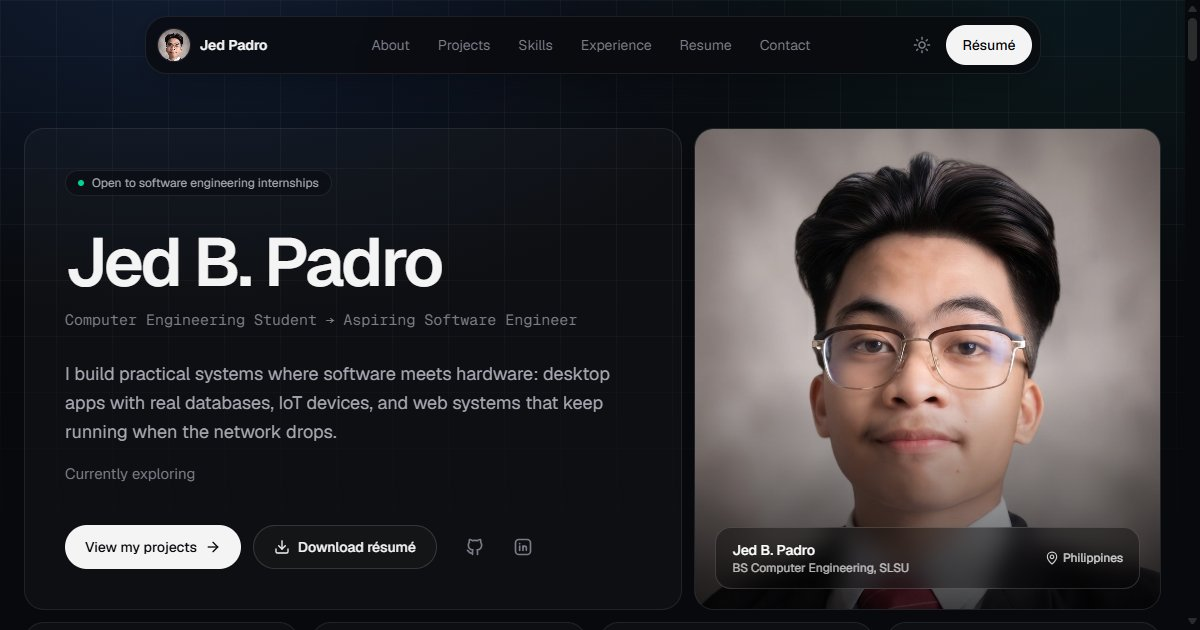
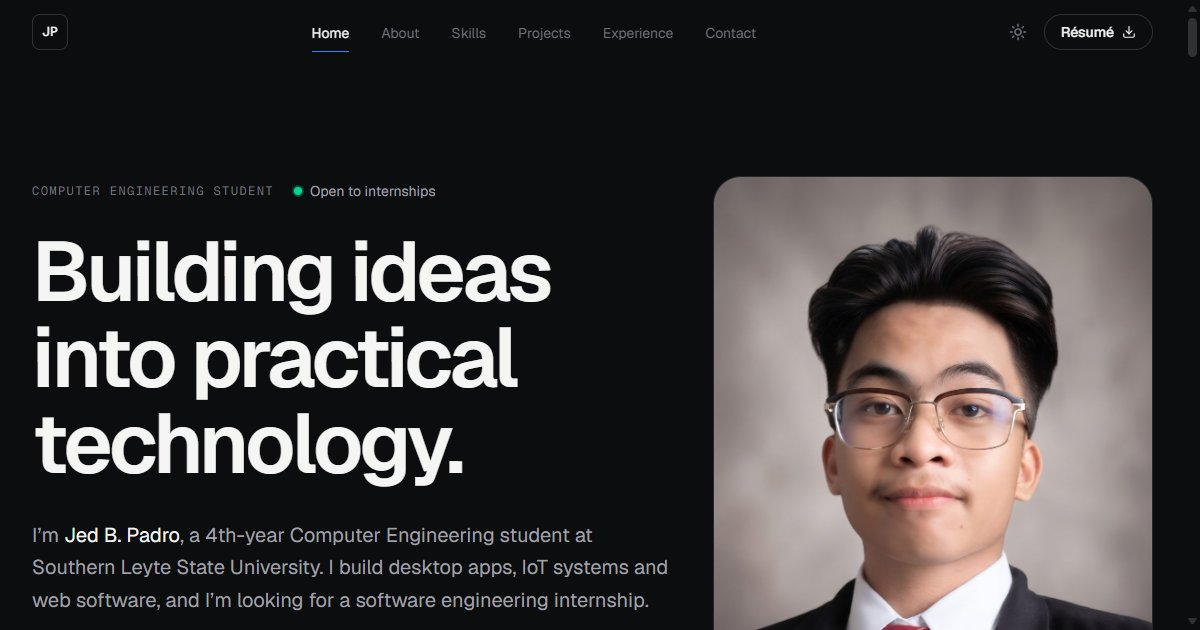
Update README, credits and social preview

diff --git a/README.md b/README.md
@@ -54,7 +54,7 @@ Almost everything lives in **`src/data/profile.ts`**. Change it, save, and the s
 - **Your photo:** put a square photo at `public/profile.jpg` and set `photo: 'profile.jpg'`. Until then a "JP" monogram shows.
 - **About me:** the `about.paragraphs`, `about.highlights` and `about.interests` lists.
 - **Skills:** the `skills` list. Each group has a name, an icon (`code`, `globe`, `database`, `cpu` or `wrench`) and its items.
-- **Projects:** the `projects` list. To add a screenshot, put the image in `public/projects/` (for example `public/projects/trainsmart.png`) and set `image: 'projects/trainsmart.png'` on that project. Until then the card shows a diagram of how the project works. `category` (`Desktop`, `IoT` or `Web`) drives the filter buttons.
+- **Projects:** the `projects` list (problem, objective, contributions, features, challenges, result, availability). To add a screenshot, put the image in `public/projects/` (for example `public/projects/trainsmart.png`) and set `image: 'projects/trainsmart.png'` on that project. Until then the card shows a diagram of how the project works. `category` (`Desktop`, `IoT` or `Web`) drives the filter buttons.
 - **Experience and education:** the `timeline` list. Entries with `placeholder: true` show as dashed "add this" cards; replace them with real entries or delete them.
 - **Certificates:** the `certificates` list. Put the PDF in `public/certificates/`, set `file: 'certificates/<name>.pdf'` and `image: 'certificates/<name>.jpg'`, then run `npm run thumbs` to render the thumbnail from the PDF (needs Python with PyMuPDF: `pip install pymupdf`).
 - **Project write-ups:** each project's `focus` (the engineering problem it's really about), `details` (shown in the expandable panel) and `availability` (where the code lives) are in the `projects` list.
@@ -69,17 +69,16 @@ npm run resume
 
 It looks for Chrome or Edge. If it can't find one, set `CHROME_PATH` to your browser's path. You can also simply replace `public/resume.pdf` with a résumé you made elsewhere; the download buttons will serve whatever file is there.
 
-### The contact form
+### Contact
 
-Out of the box the form does not pretend to send anything. When a visitor presses the button, their own email app opens with the name, subject and message filled in, addressed to you.
+The contact section uses email only: a large mailto link, a "Send an email" button and a copy button.
+There is deliberately no form, so nothing can silently fail to send. (`formspreeId` in `profile.ts` is kept
+for a future form; it isn't used by the current design.)
 
-To receive messages directly instead:
+### Content plan
 
-1. Create a free form at [formspree.io](https://formspree.io) and copy its form ID (the part after `/f/`).
-2. For local development, create a `.env` file in the project folder containing `VITE_FORMSPREE_ID=your_id`.
-3. For the live site on GitHub Pages: repo **Settings → Secrets and variables → Actions → Variables**, add a variable named `VITE_FORMSPREE_ID` with your ID, then push or re-run the deploy workflow.
-
-The button then reads "Send message" and only shows "Message sent" after Formspree confirms it.
+`docs/PORTFOLIO_PLAN.md` holds the content strategy, section order, recruiter checklist and the visual system
+this design follows, plus a checklist of content still to add (real screenshots first).
 
 ## Deploying
 

diff --git a/THIRD_PARTY_NOTICES.md b/THIRD_PARTY_NOTICES.md
@@ -4,6 +4,8 @@
   released under CC0 1.0. The logos remain trademarks of their respective owners.
 - **Tabler Icons** (https://tabler.io/icons): the GitHub, LinkedIn and email outline icons, MIT License.
 - **Lucide** (https://lucide.dev): interface icons, ISC License.
+- **OpenStreetMap** (https://www.openstreetmap.org/copyright): the SLSU campus map image in the Campus Wayfinding project.
+  Map data © OpenStreetMap contributors, available under the Open Database License.
 
 Earlier versions of this site (before November 21, 2026) adapted the layout of DevPortfolio by
 Ryan Fitzgerald (https://github.com/RyanFitzgerald/devportfolio, MIT License). The current design is original.
